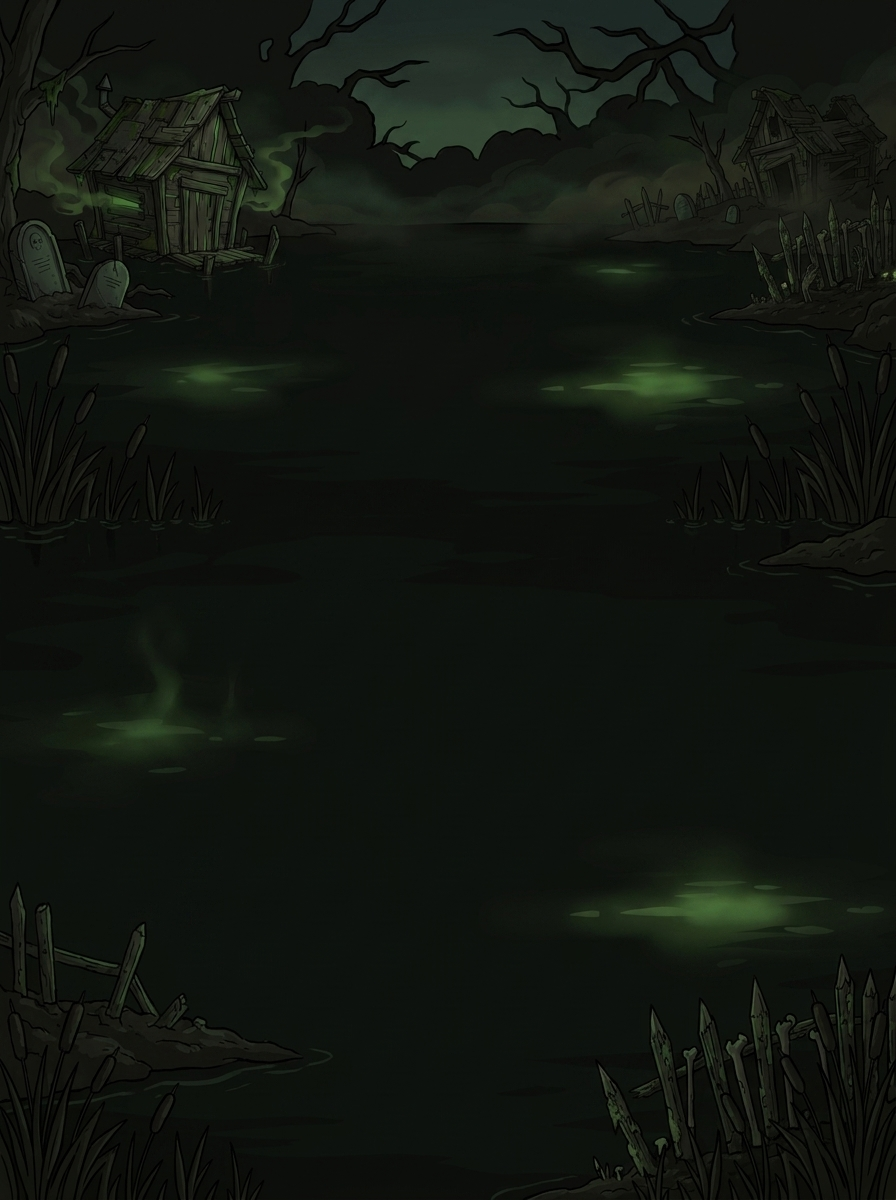
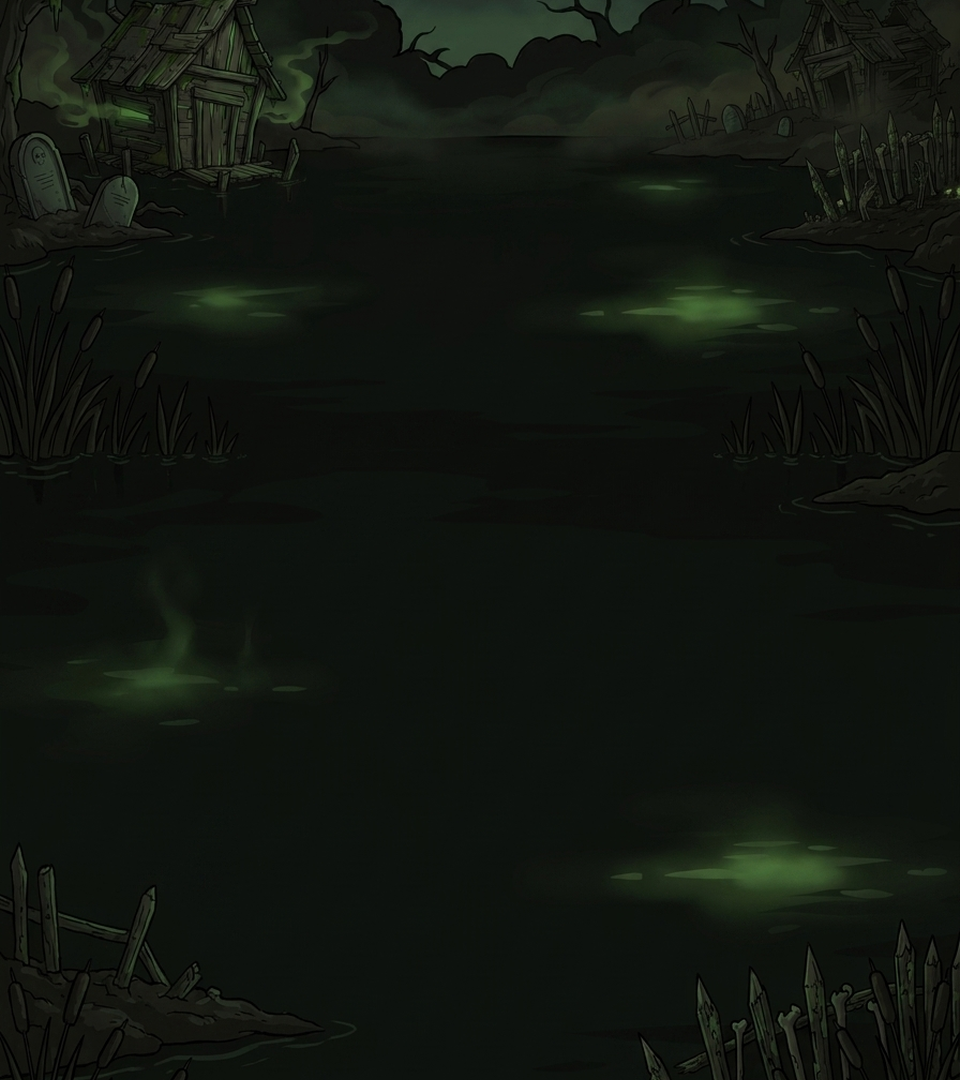
fix(s165): the zone backdrop was stalling match boot on CI — hold the load, and size the art to its rect
⛔ I BROKE CI AND THE EVIDENCE IS UNAMBIGUOUS, SO THIS IS NOT A GUESS. The E2E lane passed on every
run up to and including ef944bd (the W1-C wiring) and failed on ALL THREE commits after 8aff165 —
every one of which carries the zone-background renderer. `e2e/hunter.spec.ts:68`, a SOLO gating test,
timed out on "a gatherer banks a shape into the local castle" after 15 s. `npm run e2e:gating`, the
identical command CI runs, stayed green locally on all three.

The difference is the environment, not the command: locally this is Windows with a real GPU, CI is
headless Linux on software GL, where decoding and uploading a ~900 KB texture is far slower. My first
cut started `Assets.load` on the very first PLAYING frame — squarely inside match boot.

⚠ I had flagged this exact possibility one commit earlier and called the two failures "most likely
knock-on". They were not. Two more runs of the same failure is what settled it, and the flag is what
made that readable rather than a surprise.

TWO FIXES, both correct on their own merits:

1. THE LOAD IS HELD until the match has been running 3 s. Gameplay owns the opening seconds; a
   backdrop arriving a beat late is unnoticeable, a stalled first second is not. Until then the board
   is the black it has always been.

2. THE ART IS NOW THE SIZE OF THE RECT IT FILLS. The 4P images were 1376x768 for a 960x540 zone —
   more than twice the pixels needed, decoded and uploaded on every client for nothing. Resized
[…]

diff --git a/src/state/defenders/defenderLifecycle.ts b/src/state/defenders/defenderLifecycle.ts
@@ -196,21 +196,37 @@ export function applyDefenderTick(world: World, action: DefenderTickAction): Wor
     for (const cid of stinkAggroTargets(world, d)) {
       const c = world.creatures.get(cid as unknown as CreatureId);
       if (c === undefined) continue;
-      // ⚠ TWO GATES, AND THE SECOND ONE BOUNDS WHAT THIS FEATURE ACTUALLY DOES TODAY.
-      //
-      // (1) Provenance: a spawner-sourced creature mid-chew is GLUED to its bond by design, and
-      //     overriding that would collide with the 6-attack invariant. Only null-spawner units
-      //     (Voltkin, the free goblin) re-select freely.
-      // (2) `targetsStructures`: `targetPrimitiveId` is only ever READ by the structure-attack path
-      //     (`creatureAttack.ts`), which is gated on this config flag. Writing it on a creature that
-      //     targets BONDS — a Voltkin, a chewer — sets a field nothing will look at. So the taunt
-      //     genuinely pulls GOBLINS and only goblins right now.
-      //
-      // That is a real limitation, not a bug, and it is stated rather than papered over: the goblin
-      // is the unit every seat is granted for free, so "the tower pulls the thing most likely to be
-      // walking past" holds — but a Voltkin will sail straight by, and a playtester should expect it.
-      if (c.sourceSpawnerId !== null) continue;
-      if (!getCreatureConfig(c.type).targetsStructures) continue;
+      /*
+       * ⛔ S165 — THIS TAUNT WAS DEAD CODE, AND THE COMMENT THAT USED TO SIT HERE SAID SO WITHOUT
+       * REALISING IT. It read: *"the taunt genuinely pulls GOBLINS and only goblins right now"* and
+       * called that "a real limitation, not a bug". By S165 it pulled NOTHING AT ALL — the two gates
+       * had become mutually exclusive across the entire production roster, so owner R77's
+       * depleted-tower aggro never fired once.
+       *
+       * The arithmetic, enumerated over every production SPAWN_CREATURE dispatch:
+       *   · the ONLY creature minted with `sourceSpawnerId === null` is the Voltkin;
+       *   · and the Voltkin is `targetsStructures: false`.
+       * Every unit that IS `targetsStructures: true` — all six goblins, and now the race unit —
+       * carries a spawner id, because `goblinTowerFeed` stamps one (S151) and R49 deleted the free
+       * starter goblins that used to be the null-spawner exception this gate was written for.
+       *
+       * ⭐ AND IT IS THE SAME DRIFT THE SAME SESSION FIXED ONE FILE OVER. `bots/botBrain.ts`'s
+       * `nearestChewer` filtered on `sourceSpawnerId !== null` for exactly the same reason and had
+       * silently stopped meaning "chewer" the moment goblins gained spawner ids. Its fix note warned
+       * that "a provenance check is what drifted, and it will drift again the moment another
+       * spawner-sourced creature is added" — and this is that second consumer.
+       *
+       * ⇒ Gate 1 now tests THE PROPERTY IT WAS ALWAYS REACHING FOR. The stated reason was never
+       * provenance; it was that a creature mid-chew is GLUED to its bond and must not be re-aimed.
+       * `chewsConnectors` says that directly, and it is what the Voltkin and the chewer have in
+       * common while the goblins and the race unit do not.
+       * ⚠ Gate 2 is unchanged and is the real discriminator: `targetPrimitiveId` is only ever READ
+       * by the structure-attack path, so writing it on a bond-targeting unit sets a field nothing
+       * looks at.
+       */
+      const cfg = getCreatureConfig(c.type);
+      if (cfg.chewsConnectors) continue;
+      if (!cfg.targetsStructures) continue;
       c.targetPrimitiveId = d.anchorPrimitiveId;
     }
   }

diff --git a/src/render/zoneBackgroundRenderer.ts b/src/render/zoneBackgroundRenderer.ts
@@ -48,6 +48,16 @@ import { defaultRaceForSeat, isRaceId, type RaceId } from '../state/races.ts';
  */
 const ZONE_BG_ALPHA = 0.55;
 
+/**
+ * How long a match runs before the backdrop starts loading. 3 s at 60 Hz.
+ *
+ * ⚠ THIS NUMBER IS MINE. Long enough to clear the boot burst that CI showed this renderer was
+ * landing in the middle of (see `sync`), short enough that a player reaching the board has it before
+ * they have finished reading the wave banner. The BUILD phase is 90 s, so it costs 3% of the opening
+ * phase and nothing at all thereafter.
+ */
+const ZONE_BG_HOLD_TICKS = 3 * 60;
+
 /** Where a race's zone art lives, per board. `-4p` is landscape, `-2p` portrait — see R137. */
 function zoneArtUrl(race: RaceId, layout: ZoneLayout): string {
   return `/art/race-zones/zone-${race}-${layout === 'PITCH_2P' ? '2p' : '4p'}.png`;
@@ -143,6 +153,28 @@ export class ZoneBackgroundRenderer {
      * played on, and blanking it mid-ceremony would read as a bug.
      */
     if (world.gameState === 'TITLE') {
+      this.layer.visible = false;
+      return;
+    }
+    /*
+     * ⛔ A BACKDROP MUST NEVER COMPETE WITH THE FIRST SECONDS OF A MATCH, AND CI PROVED THAT THE
+     * HARD WAY. The first cut started `Assets.load` on the very first PLAYING frame. Locally
+     * (Windows, real GPU) that is invisible. On the CI runner (headless Linux, software GL) the
+     * decode-and-upload of a ~900 KB texture lands squarely in match boot, and
+     * `e2e/hunter.spec.ts:68` — a SOLO gating test — began timing out on "a gatherer banks a shape
+     * into the local castle" after 15 s.
+     *
+     * ⚠ THE EVIDENCE IS UNAMBIGUOUS AND IT IS WHY THIS IS NOT GUESSWORK: the E2E lane passed on
+     * every commit up to and including ef944bd (the W1-C wiring) and failed on all three commits
+     * after 8aff165 — every one of which carries this renderer — while `npm run e2e:gating`, the
+     * identical command, stayed green locally on all of them.
+     *
+     * ⭐ So the load is HELD until the match has been running for a moment. This is the right shape
+     * regardless of CI: gameplay owns the opening seconds, and a backdrop appearing a beat late is
+     * unnoticeable, while a stalled first second is not. Until then the board is the black it has
+     * always been.
+     */
+    if (world.tick < ZONE_BG_HOLD_TICKS) {
       this.layer.visible = false;
       return;
     }
